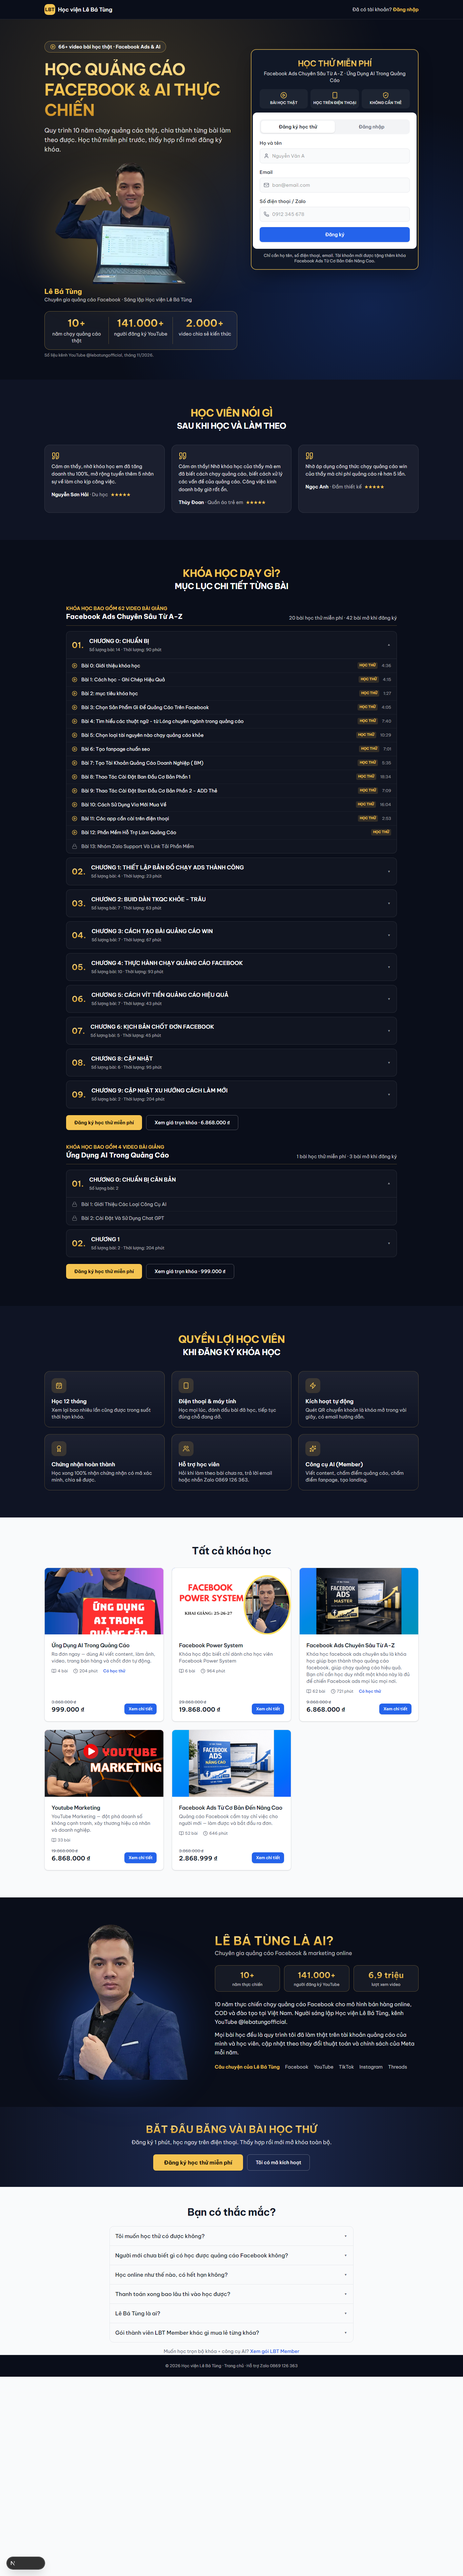
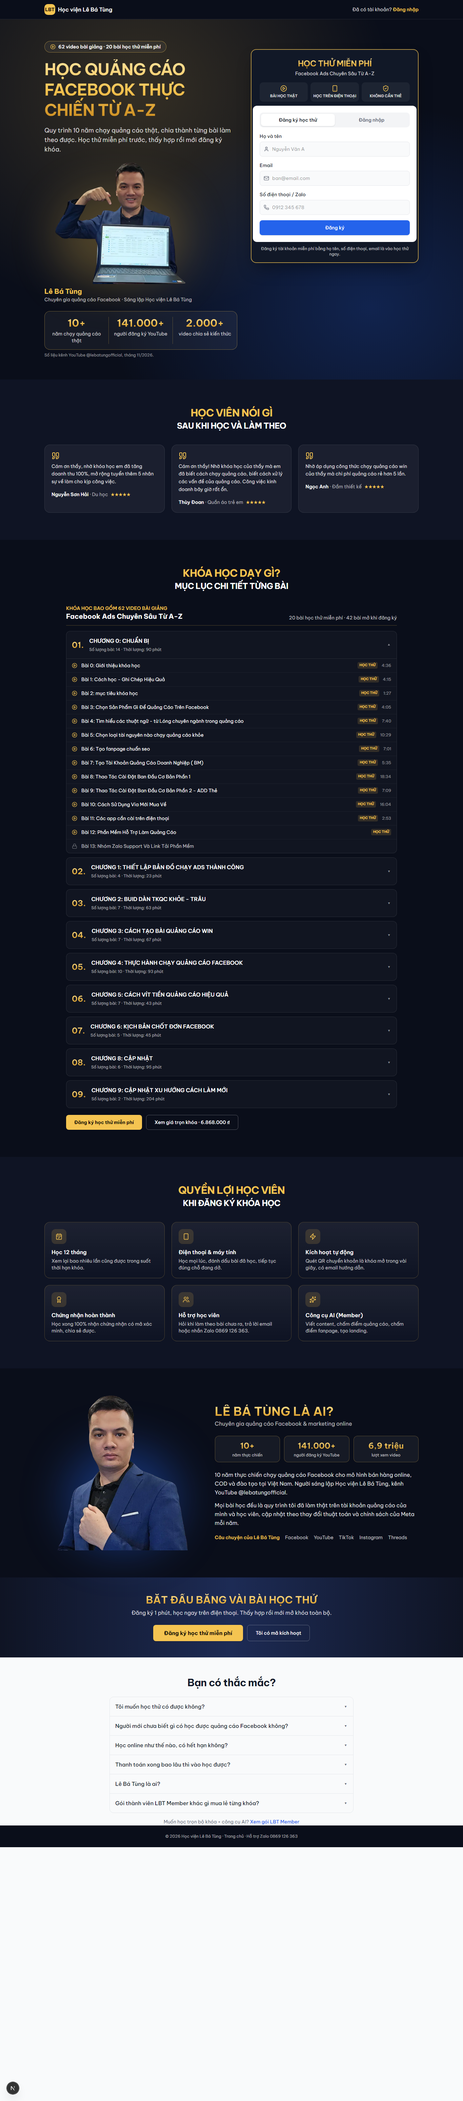
Ladi /hoc-thu chỉ khóa Facebook Ads Chuyên Sâu (bỏ khóa AI + danh sách khóa); ngừng tặng khóa FB Cơ bản đến Nâng cao cho tài khoản mới (migration) + sửa email chào mừng

diff --git a/src/app/hoc-thu/page.tsx b/src/app/hoc-thu/page.tsx
@@ -1,12 +1,9 @@
 import Link from "next/link";
 import Image from "next/image";
 import {
-  Award, BookOpen, Clock, Lock, PlayCircle, Quote, ShieldCheck, Smartphone, Sparkles, Users, Zap, CalendarCheck,
+  Award, Lock, PlayCircle, Quote, ShieldCheck, Smartphone, Sparkles, Users, Zap, CalendarCheck,
 } from "lucide-react";
-import { Card } from "@/components/ui/card";
 import { Button } from "@/components/ui/button";
-import { CourseCover } from "@/components/course-cover";
-import { listPublishedCourses } from "@/lib/courses";
 import { listFeaturedReviews } from "@/lib/content";
 import { formatDuration, formatVND } from "@/lib/utils";
 import { AUTHOR, BRAND, SOCIALS, socialName, learnHref, marketingHref } from "@/lib/site";
@@ -15,15 +12,18 @@ import { HomeAuthPanel } from "@/components/home-auth-panel";
 import { listTrialCourses } from "@/lib/trial-courses";
 import { faqLd } from "@/lib/schema";
 
-// Trang LADI học thử (không menu, chỉ 1 việc: đăng ký học thử). Lưu sẵn trên CDN; tự làm mới tối đa 5 phút/lần, sửa trong Admin thì làm mới ngay.
+// Trang LADI học thử khóa Facebook Ads Chuyên Sâu (chạy quảng cáo; không menu, chỉ 1 việc: đăng ký học thử). Lưu sẵn trên CDN; tự làm mới tối đa 5 phút/lần, sửa trong Admin thì làm mới ngay.
 export const revalidate = 300;
+
+/** Khóa của trang ladi này (chỉ khóa Facebook, chưa làm khóa AI) */
+const LADI_COURSE = "facebook-ads-chuyen-sau-tu-a-z";
 
 /** Số liệu kênh YouTube @lebatungofficial (YouTube Data API, 15/11/2026) */
 const CHANNEL = { subs: "141.000+", videos: "2.000+", views: "6,9 triệu" };
 
 const FAQS = [
-  { q: "Tôi muốn học thử có được không?", a: "Được. Điền họ tên, số điện thoại, email ở đầu trang là vào học ngay các bài học thử của khóa Facebook Ads Chuyên Sâu và khóa AI. Bài có nhãn “Học thử” xem miễn phí, các bài còn lại mở khi đăng ký khóa." },
-  { q: "Người mới chưa biết gì có học được quảng cáo Facebook không?", a: "Được. Tài khoản mới còn được tặng khóa Facebook Ads Từ Cơ Bản Đến Nâng Cao để học từ đầu: tạo tài khoản, fanpage, đọc chỉ số rồi mới tới tối ưu và mở rộng." },
+  { q: "Tôi muốn học thử có được không?", a: "Được. Điền họ tên, số điện thoại, email ở đầu trang là vào học ngay các bài học thử của khóa Facebook Ads Chuyên Sâu Từ A-Z. Bài có nhãn “Học thử” xem miễn phí, các bài còn lại mở khi đăng ký khóa." },
+  { q: "Người mới chưa biết gì có học được quảng cáo Facebook không?", a: "Được. Chương 0 của khóa đi từ đầu: chọn sản phẩm, tạo fanpage, tạo tài khoản quảng cáo doanh nghiệp, cài đặt ban đầu, rồi mới tới lên chiến dịch, tối ưu và vít ngân sách. Anh/chị học thử các bài này trước để xem có hợp không." },
   { q: "Học online như thế nào, có hết hạn không?", a: "Học trên điện thoại hoặc máy tính tại hoc.lebatung.com. Lần đầu đăng nhập bằng mã gửi về email, sau đó đặt mật khẩu. Mỗi khóa học được tối đa 12 tháng kể từ ngày kích hoạt." },
   { q: "Thanh toán xong bao lâu thì vào học được?", a: "Chuyển khoản qua mã QR đúng nội dung, hệ thống tự mở khóa trong vài giây và gửi email hướng dẫn vào học." },
   { q: "Lê Bá Tùng là ai?", a: "Lê Bá Tùng là chuyên gia quảng cáo Facebook và marketing online với 10 năm thực chiến cho mô hình bán hàng online, COD tại Việt Nam, người sáng lập Học viện Lê Bá Tùng và kênh YouTube @lebatungofficial." },
@@ -40,8 +40,8 @@ const BENEFITS = [
 ];
 
 export const metadata = {
-  title: "Học thử miễn phí — Khóa Facebook Ads & AI thực chiến | Lê Bá Tùng",
-  description: "Học quảng cáo Facebook và ứng dụng AI thực chiến cùng Lê Bá Tùng — 10 năm chạy quảng cáo thật. Đăng ký miễn phí để học thử các bài trong khóa.",
+  title: "Học thử miễn phí khóa Facebook Ads Chuyên Sâu Từ A-Z | Lê Bá Tùng",
+  description: "Học thử miễn phí các bài trong khóa Facebook Ads Chuyên Sâu Từ A-Z của Lê Bá Tùng, 10 năm chạy quảng cáo thật. Đăng ký tài khoản là vào học ngay.",
   alternates: { canonical: "/hoc-thu" },
   openGraph: { images: [{ url: "https://i.ytimg.com/vi/u3PZ56cEFFE/maxresdefault.jpg", width: 1280, height: 720 }] },
 };
@@ -65,7 +65,8 @@ const HERO_CHIPS: [typeof PlayCircle, string][] = [
 ];
 
 export default async function TrialLandingPage() {
-  const [courses, trials, reviews] = await Promise.all([listPublishedCourses(), listTrialCourses(), listFeaturedReviews()]);
+  const [allTrials, reviews] = await Promise.all([listTrialCourses(), listFeaturedReviews()]);
+  const trials = allTrials.filter((t) => t.slug === LADI_COURSE);
   const firstTrial = trials[0];
   const trialFrom = firstTrial ? `/hoc/${firstTrial.slug}${firstTrial.firstFreeId ? `/${firstTrial.firstFreeId}` : ""}` : "/hoc";
   const trialVideos = trials.reduce((n, t) => n + t.total, 0);
@@ -91,10 +92,10 @@ export default async function TrialLandingPage() {
         <div className="relative mx-auto grid max-w-6xl gap-10 px-4 py-10 md:px-6 lg:grid-cols-[1.15fr_1fr] lg:py-16">
           <div className="text-center lg:text-left">
             <span className="inline-flex items-center gap-2 rounded-full border border-[#f5c451]/50 bg-white/5 px-4 py-1.5 text-sm font-semibold">
-              <PlayCircle className={`size-4 ${GOLD}`} /> {trialVideos > 0 ? `${trialVideos}+ video bài học thật` : "Học thử miễn phí"} · Facebook Ads & AI
+              <PlayCircle className={`size-4 ${GOLD}`} /> {firstTrial ? `${trialVideos} video bài giảng · ${firstTrial.free.length} bài học thử miễn phí` : "Học thử miễn phí"}
             </span>
             <h1 className={`mt-5 text-4xl leading-tight font-black tracking-tight uppercase md:text-5xl ${goldTitle}`}>
-              Học quảng cáo Facebook &amp; AI thực chiến
+              Học quảng cáo Facebook thực chiến từ A-Z
             </h1>
             <p className="mx-auto mt-4 max-w-xl text-base text-white/80 md:text-lg lg:mx-0">
               Quy trình 10 năm chạy quảng cáo thật, chia thành từng bài làm theo được. Học thử miễn phí trước, thấy hợp rồi mới đăng ký khóa.
@@ -128,7 +129,7 @@ export default async function TrialLandingPage() {
               <div className="rounded-xl bg-[#111827] px-5 pt-5 pb-3 text-center">
                 <p className={`text-xl font-black tracking-tight uppercase md:text-2xl ${goldTitle}`}>Học thử miễn phí</p>
                 <p className="mt-1 text-sm text-white/80">
-                  {trials.length ? trials.map((t) => t.title).join(" · ") : "Các khóa quảng cáo Facebook & AI"}
+                  {firstTrial?.title ?? "Khóa Facebook Ads Chuyên Sâu Từ A-Z"}
                 </p>
                 <div className="mt-4 grid grid-cols-3 gap-2 text-[11px] font-semibold text-white/85 uppercase">
                   {HERO_CHIPS.map(([Icon, l]) => (
@@ -142,7 +143,7 @@ export default async function TrialLandingPage() {
                 <HomeAuthPanel from={trialFrom} quick />
               </div>
               <p className="px-5 py-3 text-center text-xs text-white/70">
-                Chỉ cần họ tên, số điện thoại, email. Tài khoản mới được tặng thêm khóa Facebook Ads Từ Cơ Bản Đến Nâng Cao.
+                Đăng ký tài khoản miễn phí bằng họ tên, số điện thoại, email là vào học thử ngay.
               </p>
             </div>
           </div>
@@ -242,46 +243,6 @@ export default async function TrialLandingPage() {
         </div>
       </section>
 
-      {/* 6. TẤT CẢ KHÓA HỌC */}
-      <section id="khoa-hoc" className="mx-auto max-w-6xl scroll-mt-20 px-4 py-14 md:px-6 md:py-20">
-        <h2 className="text-center text-2xl font-bold tracking-tight md:text-3xl">Tất cả khóa học</h2>
-        {courses.length === 0 ? (
-          <p className="text-muted-foreground mt-4 text-center text-sm">Chưa có khóa học nào được mở bán.</p>
-        ) : (
-          <div className="mt-8 grid grid-cols-1 gap-6 sm:grid-cols-2 lg:grid-cols-3">
-            {courses.map((c) => (
-              <Card key={c.id} className="flex flex-col overflow-hidden transition-shadow hover:shadow-md">
-                <Link href={`/khoa-hoc/${c.slug}`}>
-                  <CourseCover course={c} className="aspect-video" />
-                </Link>
-                <div className="flex flex-1 flex-col p-5">
-                  <h3 className="font-semibold tracking-tight">
-                    <Link href={`/khoa-hoc/${c.slug}`} className="hover:text-primary">{c.title}</Link>
-                  </h3>
-                  {c.subtitle && <p className="text-muted-foreground mt-1 text-sm">{c.subtitle}</p>}
-                  <div className="text-muted-foreground mt-3 flex items-center gap-4 text-xs">
-                    <span className="inline-flex items-center gap-1"><BookOpen className="size-3.5" /> {c.lessonCount} bài</span>
-                    {c.totalSec > 0 && <span className="inline-flex items-center gap-1"><Clock className="size-3.5" /> {Math.round(c.totalSec / 60)} phút</span>}
-                    {trials.some((t) => t.slug === c.slug) && <span className="text-primary font-semibold">Có học thử</span>}
-                  </div>
-                  <div className="flex-1" />
-                  <div className="mt-4 flex items-end justify-between gap-2">
-                    <div>
-                      {c.compare_price_vnd && c.compare_price_vnd > c.price_vnd && (
-                        <p className="text-muted-foreground text-xs line-through">{formatVND(c.compare_price_vnd)}</p>
-                      )}
-                      <p className="text-lg font-bold">{c.price_vnd ? formatVND(c.price_vnd) : "Miễn phí"}</p>
-                    </div>
-                    <Button asChild size="sm">
-                      <Link href={`/khoa-hoc/${c.slug}`}>Xem chi tiết</Link>
-                    </Button>
-                  </div>
-                </div>
-              </Card>
-            ))}
-          </div>
-        )}
-      </section>
 
       {/* 7. LÊ BÁ TÙNG LÀ AI — E-E-A-T */}
       <section className="bg-[#0a0e1a] text-white">
